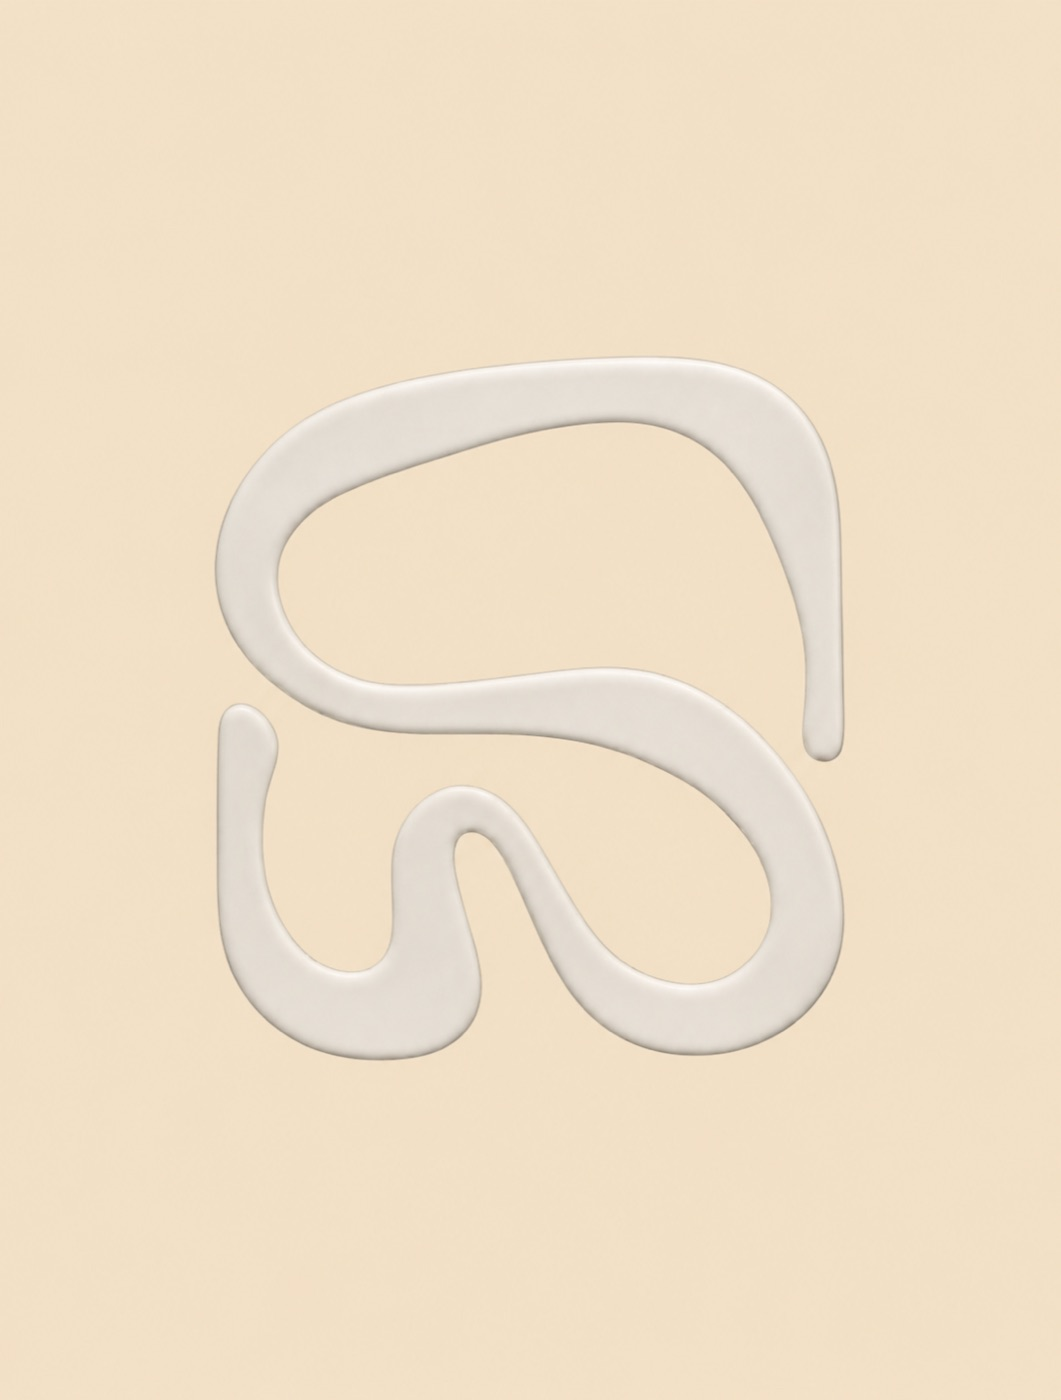
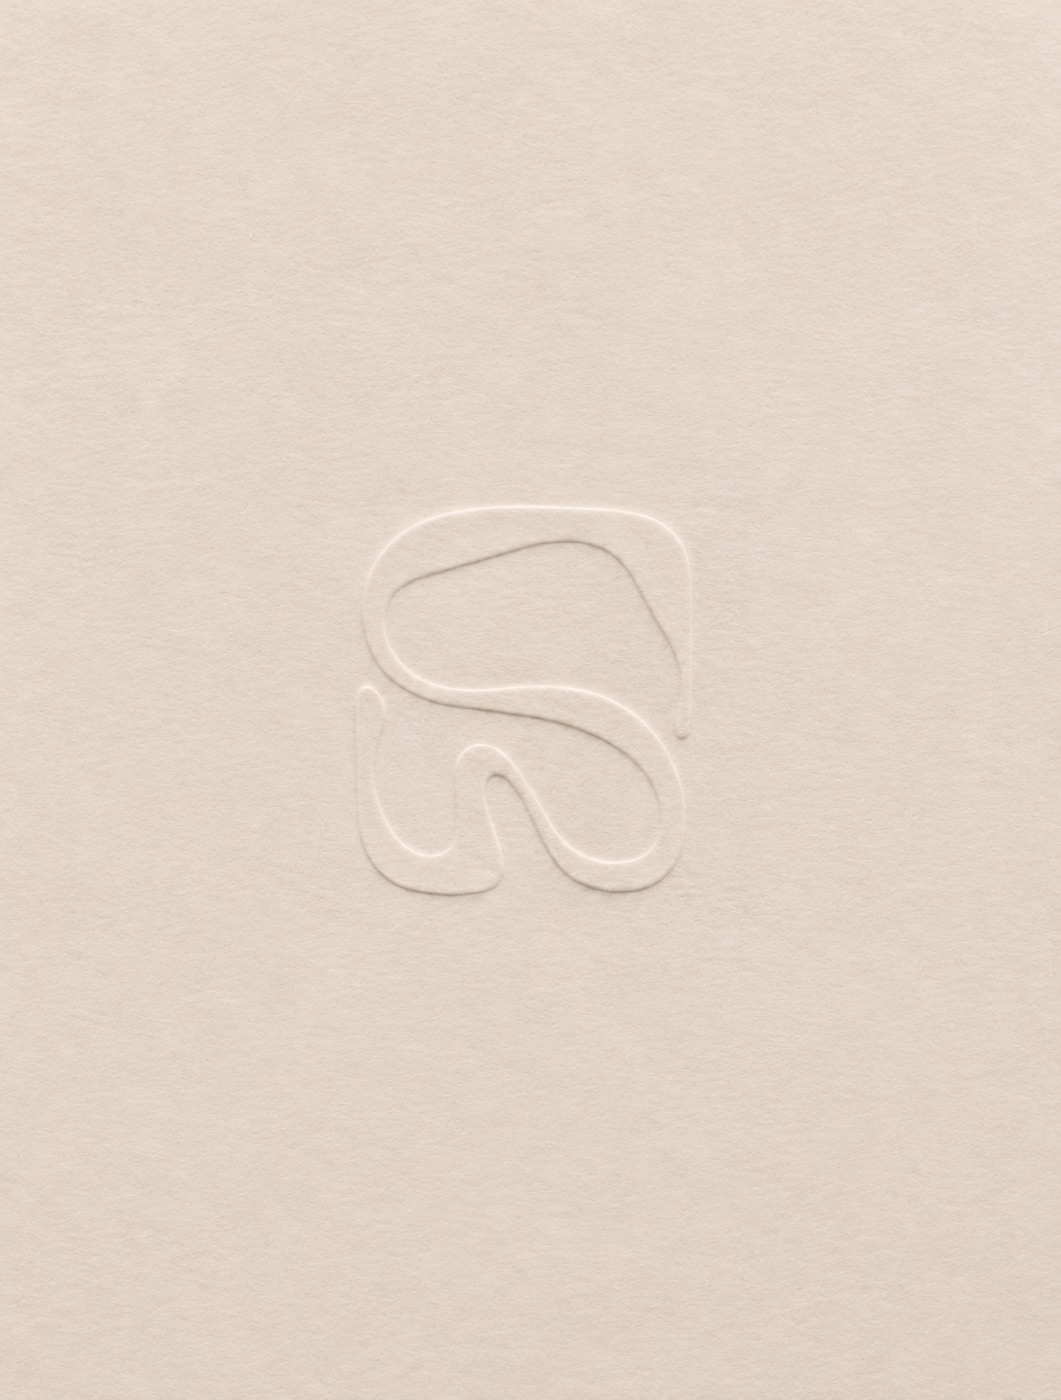
Cambiar la imagen de fondo de la tarjeta

diff --git a/index.html b/index.html
@@ -5,7 +5,7 @@
   <meta name="viewport" content="width=device-width, initial-scale=1, viewport-fit=cover">
   <title>Sury Saray · CEO</title>
   <meta name="description" content="Sury Saray · 15 años transformando tu belleza desde el interior.">
-  <meta name="theme-color" content="#F2E1C5">
+  <meta name="theme-color" content="#E9DFD3">
 
   <!-- Vista previa al compartir el enlace (WhatsApp, redes…) -->
   <meta property="og:title" content="Sury Saray · CEO">
@@ -47,7 +47,7 @@
     body {
       font-family: var(--textos);
       color: var(--chocolate);
-      background-color: #F2E1C5;
+      background-color: #E9DFD3;
       min-height: 100svh;
       display: flex;
       align-items: center;
@@ -63,7 +63,7 @@
       position: fixed;
       inset: 0;
       z-index: -1;
-      background: #F2E1C5 url("fondo.jpg") center / cover no-repeat;
+      background: #E9DFD3 url("fondo.jpg") center / cover no-repeat;
     }
 
     .tarjeta {
